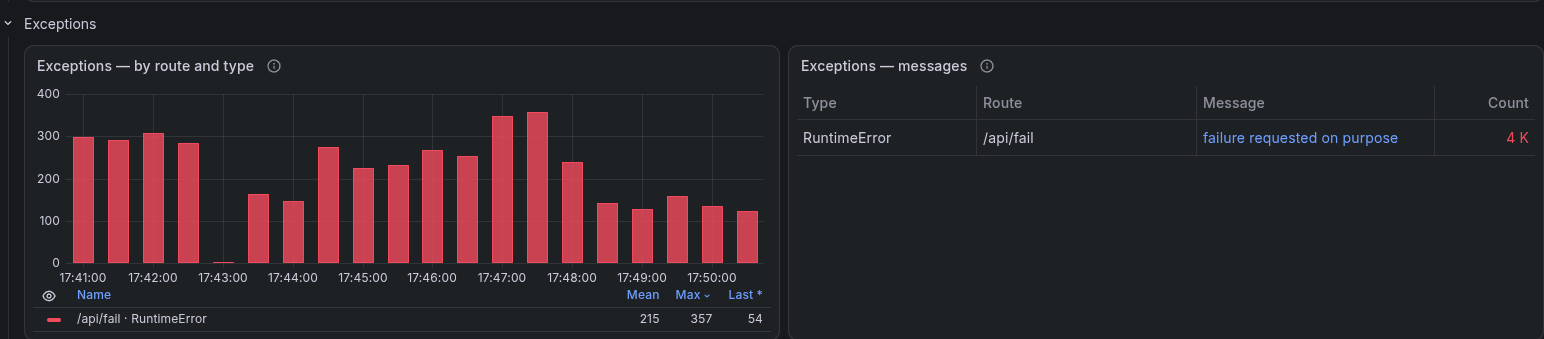
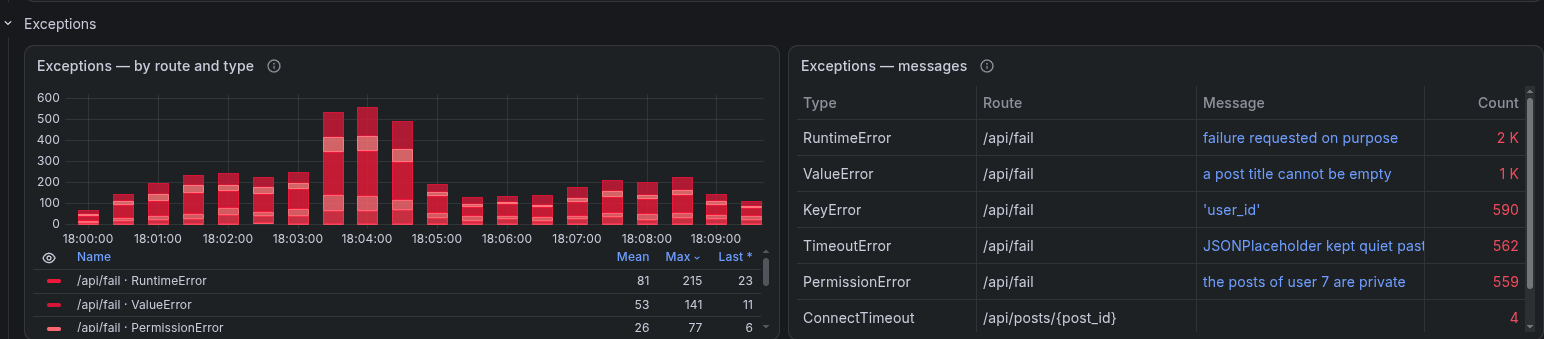
docs: more screenshots — pickers, a route alone, the Russian dashboard, Alloy, errors and links
Dashboard screenshots taken again over a fixed ten minutes of shaped traffic with an incident. New: every status class and percentile, the dashboard of one route, the Russian dashboard, Alloy's pipeline, the links of a series, an exception's stack, a browser error, a span's operation P95.

diff --git a/README.md b/README.md
@@ -112,6 +112,11 @@ flowchart LR
 > collector being killed. Tempo derives span metrics and Alloy the service graph, both written to
 > VictoriaMetrics.
 
+Alloy draws its own pipeline at http://localhost:12345, with the live rate on every edge: what
+comes in, which stage it passes, where it goes.
+
+![Alloy's pipeline](docs/screenshots/20-alloy-pipeline.png)
+
 ## 📊 Dashboard
 
 **FastAPI: traffic, latency, errors, traces, logs, profile** — nothing hardcoded: data sources,
@@ -127,6 +132,14 @@ narrows the whole dashboard to itself, as Grafana's own operations tables do.
 | the Workers row | Percentiles — the same, for the workers' latency |
 | the Profiling row | Profile type |
 | the Traces row | Show — slow or failed at first, slow, failed or all |
+
+A row's picker reshapes its panel and nothing else: every status class at once, every percentile
+of the service and of each route.
+
+<p>
+<img src="docs/screenshots/25-status-codes-all.png" width="49%" alt="RPS of every status class, in total and by route">
+<img src="docs/screenshots/26-latency-percentiles.png" width="49%" alt="P50, P95 and P99, in total and by route">
+</p>
 
 The order is the order of an investigation: is the service fine, which requests suffer, is the
 promise kept, why, and the evidence. Groups nest — a dashboard in the v2 schema, the one with rows inside rows.
@@ -150,11 +163,17 @@ Every route and every worker is drawn; the variables narrow them — `Route` to 
 to the workers of one container or pod. Each title says what is measured, then how it is cut:
 `RPS — total · by route`, `CPU — by worker, one core is 100%`.
 
+A click on `/api/report/{post_id}` in Routes, and the dashboard is about that route alone:
+
+![The dashboard narrowed to one route](docs/screenshots/27-dashboard-route.png)
+
 **In three languages.** English, Русский and 中文 are three dashboards in
 [`dashboards/`](observability/grafana/dashboards), each translated whole — title, variables, rows,
 panels; pick one in the dashboard list or under All dashboards. Grafana translates its own
 interface, which follows the browser's language, but never what a dashboard says: a change to one
 is a change to all three.
+
+![The dashboard in Russian](docs/screenshots/28-dashboard-ru.png)
 
 Lines read the same on every panel. A total is thick, over a light fill, drawn above the rest and
 named `total` — white for the service, or the colour of its class: 2xx green, 3xx blue, 4xx orange,
@@ -246,6 +265,11 @@ flowchart LR
 | an exception message | its log lines | panel link → LogQL with the message |
 | a span | its logs · its CPU profile · the rate and P95 of its operation | Tempo data source links |
 
+A series carries its links: a click on a bar of `/api/fail` offers the lines and the traces of
+that exception on that route.
+
+![The links of a series](docs/screenshots/24-panel-links.png)
+
 **① A log line** links its trace and every line of its request.
 
 ![A log line and its links](docs/screenshots/08-log-to-trace.png)
@@ -272,6 +296,18 @@ server spans.
 <p>
 <img src="docs/screenshots/14-slow-traces.png" width="62%" alt="The slow traces of a route, from the latency panel">
 <img src="docs/screenshots/13-service-graph.png" width="36%" alt="The service graph">
+</p>
+
+**⑦ The rate and P95 of a span's operation** open beside the trace, from span metrics.
+
+![The P95 of a span's operation](docs/screenshots/23-span-metrics.png)
+
+**⑧ An exception's line** holds its type, message and the whole stack. **⑨ A browser error**
+arrives through Faro with the session it happened in, and the session links every trace of it.
+
+<p>
+<img src="docs/screenshots/22-exception-log.png" width="54%" alt="The log line of an exception, with its stack">
+<img src="docs/screenshots/21-browser-error.png" width="44%" alt="A browser error and its session">
 </p>
 
 A click on **Report on post 3** is one trace — the browser, the API, the cache, JSONPlaceholder,
